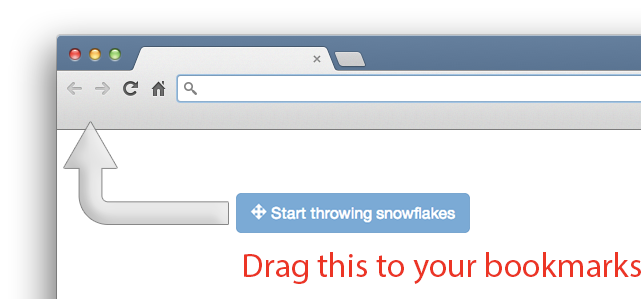
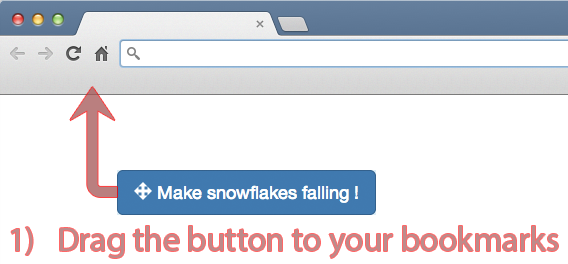
updating tuto

diff --git a/tuto.html b/tuto.html
@@ -4,20 +4,42 @@
 	<title>Snowflakes.js - Happy New Year 2014 from @_jmpp</title>
 
 	<link rel="stylesheet" type="text/css" href="http://netdna.bootstrapcdn.com/bootstrap/3.0.3/css/bootstrap.min.css">
+	<style>
+	.row img {
+		max-width: 100%;
+	}
+	</style>
 </head>
 <body>
 
 <div class="container text-center">
-	<h1>SnowFlakes</h1>
-	<p class="lead">Put snowflakes in any website you visit.<br>
-		Happy New Year 2014 :)</p>
+	<h1>Happy New Year 2014 :)</h1>
+	<p class="lead">Turn your web page in a "snowy christmas atmosphere"</p>
 	<hr>
-	<a href="javascript:var%20s%20%3D%20document.createElement(%27script%27)%3Bs.src%20%3D%20%27https%3A%2F%2Fraw.github.com%2Fjmpp%2Fsnowflakes%2Fmaster%2Fhappynewyear2014.min.js%27%3Bdocument.body.appendChild(s)%3B" title="Start throwing snowflakes" class="btn btn-lg btn-primary"><i class="glyphicon glyphicon-move"></i> Start throwing snowflakes</a>
+	<!--<a href="javascript:var%20s%20%3D%20document.createElement(%27script%27)%3Bs.src%20%3D%20%27https%3A%2F%2Fraw.github.com%2Fjmpp%2Fsnowflakes%2Fmaster%2Fhappynewyear2014.min.js%27%3Bdocument.body.appendChild(s)%3B" title="Start throwing snowflakes" class="btn btn-lg btn-primary"><i class="glyphicon glyphicon-move"></i> Start throwing snowflakes</a>-->
+	
+	<div class="row">
+	<div class="col-md-4 col-md-offset-4 alert alert-info">
+		<p>Drag this magic button to your bookmarks,<br>
+		and clic on it when you visit any web page :</p><br>
+
+		<a href='javascript:(function(){var d=30;var j=[];var a=0;var l=[];var m=225;if(!document.getElementById("happynewyear2014audio")){var k=document.createElement("audio");k.id="happynewyear2014audio";k.autoplay=true;var b=document.createElement("source");var o=document.createElement("source");var q=document.createElement("source");b.src="https://raw.github.com/jmpp/snowflakes/master/audio/Auld-Lang-Syne-8-Bit-cutted.mp3";o.src="https://raw.github.com/jmpp/snowflakes/master/audio/Auld-Lang-Syne-8-Bit-cutted.ogg";q.src="https://raw.github.com/jmpp/snowflakes/master/audio/Auld-Lang-Syne-8-Bit-cutted.wav";k.appendChild(b);k.appendChild(o);k.appendChild(q);document.body.appendChild(k)}for(var h=0;h<d;h++){var g=new Image();g.src="https://raw.github.com/jmpp/snowflakes/master/flocon.png";g.style.position="fixed";g.style.zIndex="9999";g.onload=(function(){l.push(this);if(++a===d){p()}}).bind(g)}function p(){var u,t,v;for(var r=0;r<l.length;r++){u=n(2,10);t="hsla(0,0%,45%,"+u/10+")";v="hsla(0,0%,55%,"+u/10+")";j.push({img:l[r],x:n(0,window.innerWidth),y:n(0,m),w:g.width,h:g.height,scale:n(0.2,0.6),alpha:1,direction:Math.PI/3,rotation:0,rotationSpeed:n(-1*u*0.2*0.008,u*0.2*0.008),speed:u*0.2});document.body.appendChild(l[r])}requestAnimFrame(e)}function f(){for(var r=0,u=j.length;r<u;r++){var t=j[r];t.alpha=(m-t.y)/m;t.rotation+=t.rotationSpeed;t.y+=Math.sin(t.direction)*t.speed;if(t.x+(t.w*t.scale)>window.innerWidth){t.x=-t.w*t.scale}if(t.y+(t.h*t.scale)>m){t.y=-t.h*t.scale}if(t.x+(t.w*t.scale)<0){t.x=window.innerWidth}if(t.y+(t.h*t.scale)<0){t.y=m}}}function c(){var u;for(var r=0,v=j.length;r<v;r++){var t=j[r];t.img.style.opacity=t.alpha;t.img.style.webkitTransform="scale("+t.scale+","+t.scale+") rotate("+(t.rotation*180/Math.PI)+"deg)";t.img.style.mozTransform="scale("+t.scale+","+t.scale+") rotate("+(t.rotation*180/Math.PI)+"deg)";t.img.style.msTransform="scale("+t.scale+","+t.scale+") rotate("+(t.rotation*180/Math.PI)+"deg)";t.img.style.transform="scale("+t.scale+","+t.scale+") rotate("+(t.rotation*180/Math.PI)+"deg)";t.img.style.left=t.x+"px";t.img.style.top=t.y+"px"}}function e(i){f();c();requestAnimFrame(e)}function n(r,i){return(Math.random()*(i-r))+r}window.requestAnimFrame=(function(){return window.requestAnimationFrame||window.webkitRequestAnimationFrame||window.mozRequestAnimationFrame||function(i){window.setTimeout(i,1000/60)}})()})();' title="Make snowflakes falling !" class="btn btn-lg btn-primary"><i class="glyphicon glyphicon-move"></i> Make snowflakes falling !</a>
+	</div>
+	</div>
+
 	<hr>
-	<img src="tuto.png"><br>
+	<div class="row">
+		<div class="col-md-6">
+			<img src="tuto.png">
+		</div>
+		<div class="col-md-6">
+			<img src="tuto2.png">
+		</div>
+	</div>
 	<hr>
 	<p><a href="https://twitter.com/_jmpp">@_jmpp</a> wishes you a merry christmas and a happy new year !<br>
-		&bull; <a href="https://github.com/jmpp/snowflakes">Source on Github</a> &bull;</p>
+		&bull; Awesome 8-bits music in courtesy of <a href="https://www.youtube.com/watch?v=WlhXiXs_A_Y" title="MrBulbamike's Youtube">MrBulbamike</a> &bull;<br>
+		&bull; Full source on <a href="https://github.com/jmpp/snowflakes">Github</a> &bull;
 </div>
 
 </body>

diff --git a/README.md b/README.md
@@ -1,4 +1,10 @@
-# jmpp *wishes you a *Happy new year 2014 !
 
-> [http://jmpp.fr/2014/](http://jmpp.fr/2014/) : Drag the button to your bookmarks and make the snow fall on any website.
-----
+> [http://jmpp.fr/2014/](http://jmpp.fr/2014/)
+
+Turn your web page in a "snowy christmas atmosphere" !
+Drag the magic button to your bookmarks and clic on it when you visit any web page.
+
+*Awesome 8-bits music in courtesy of [MrBulbamike](https://www.youtube.com/watch?v=WlhXiXs_A_Y) !*
+
+I wishes you a Happy new year 2014 :)
+---
